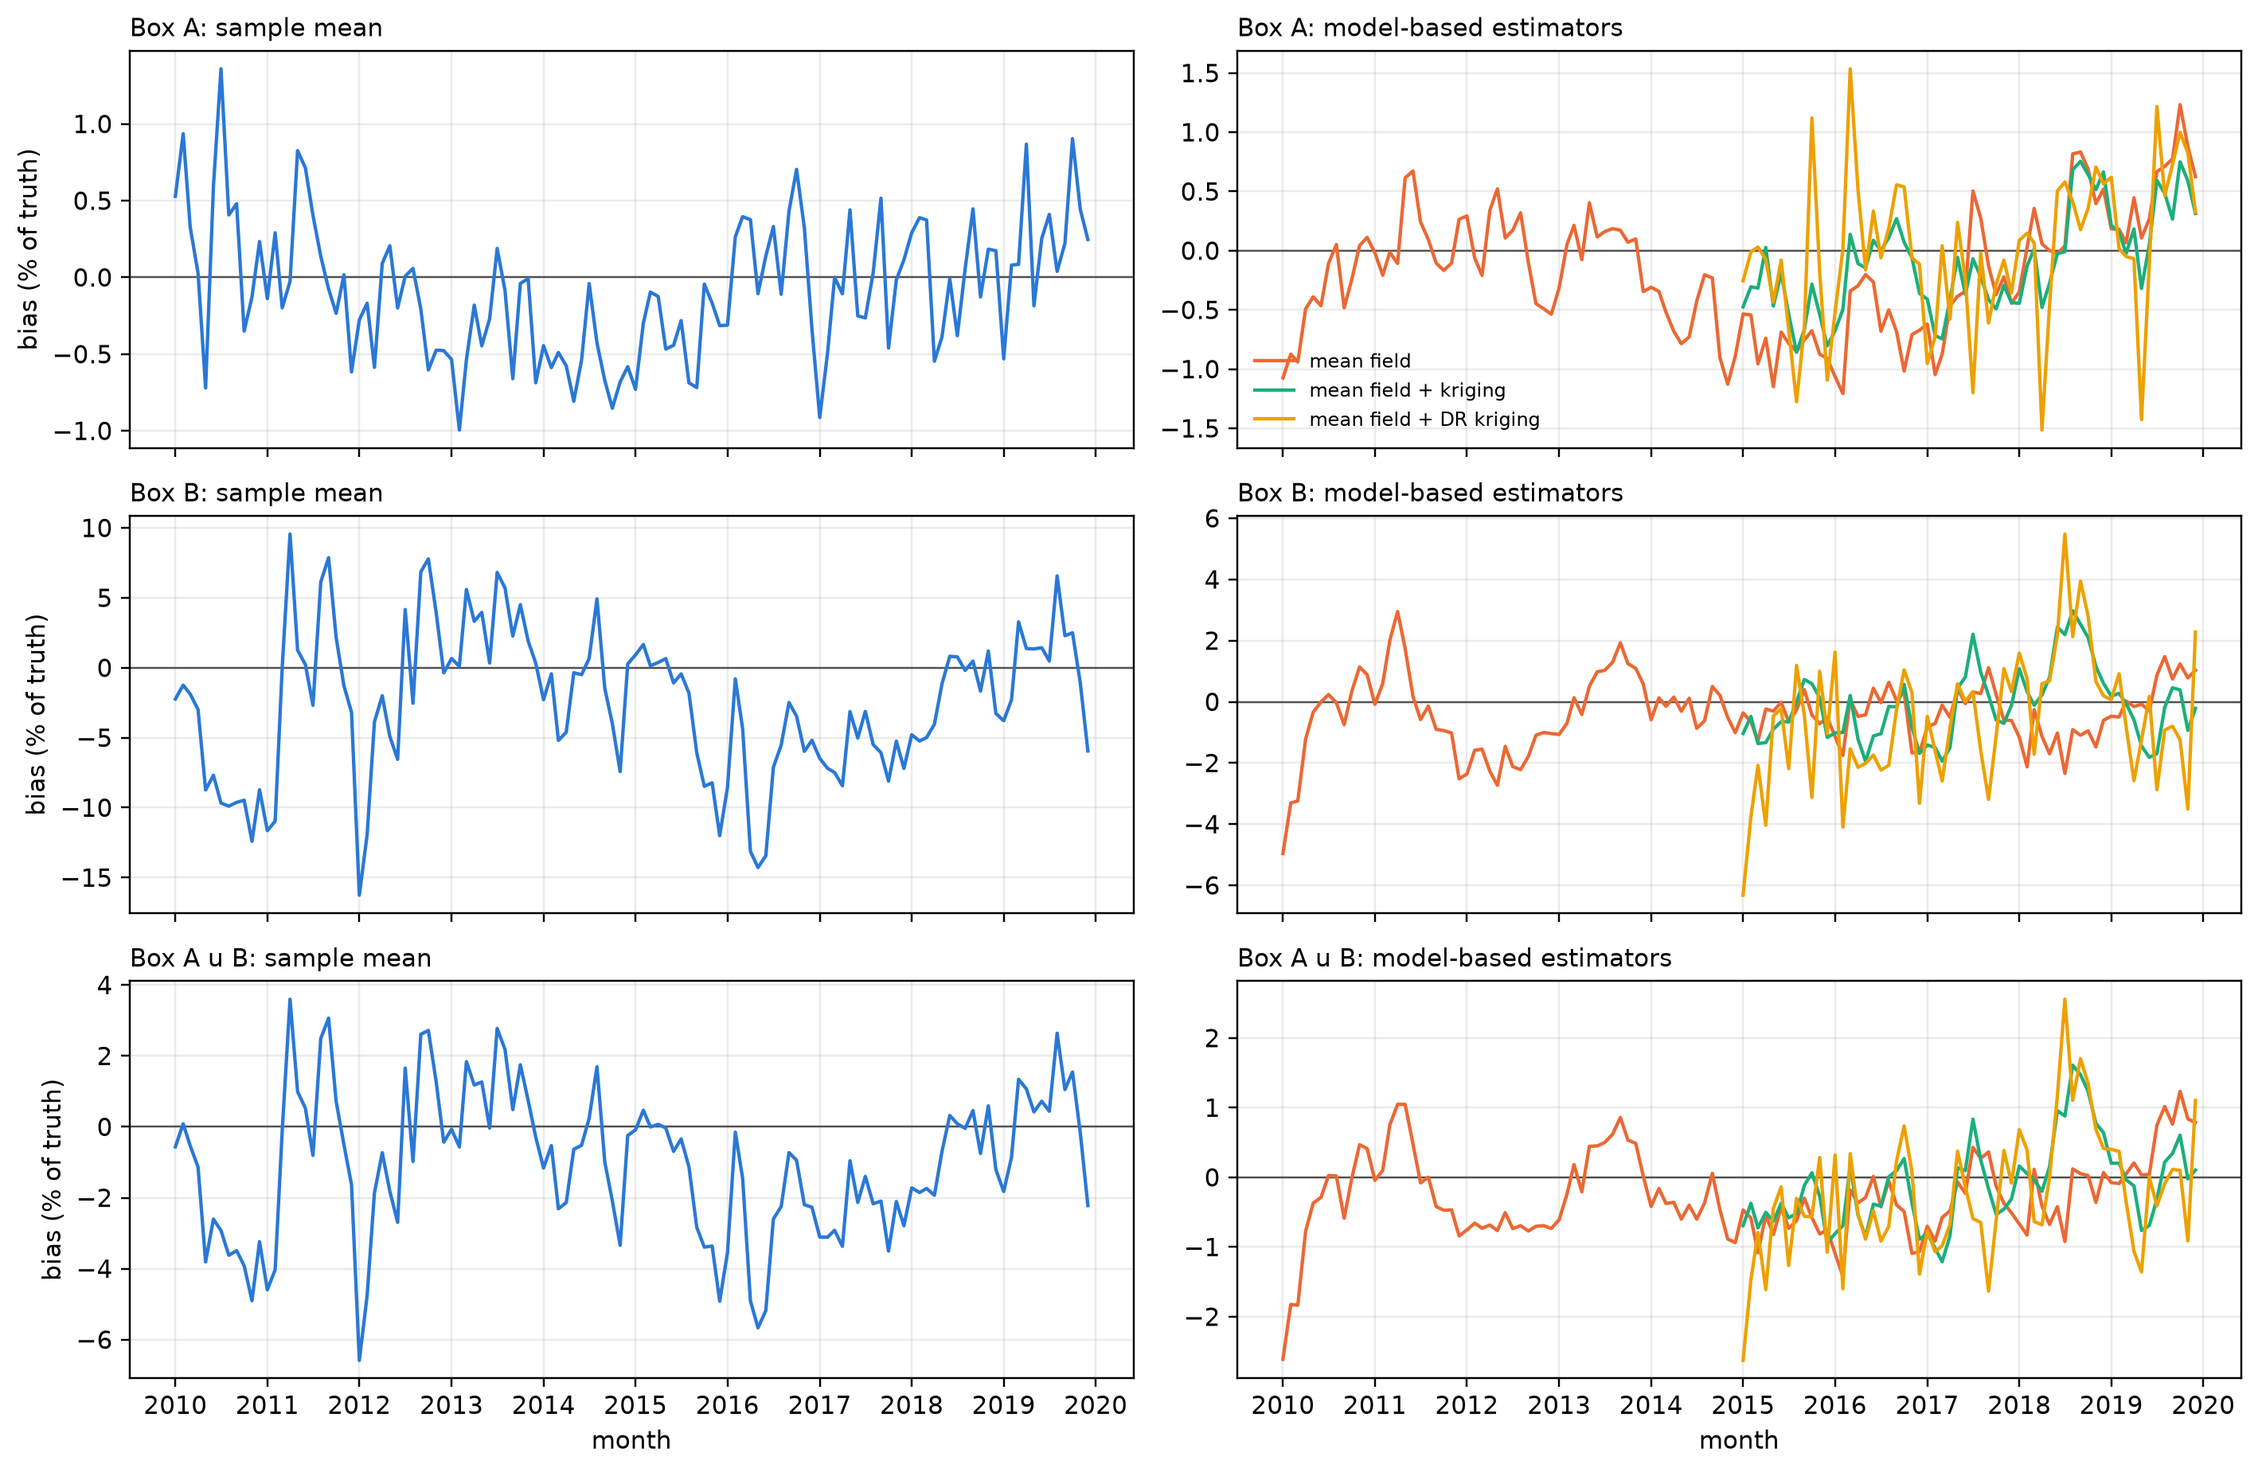
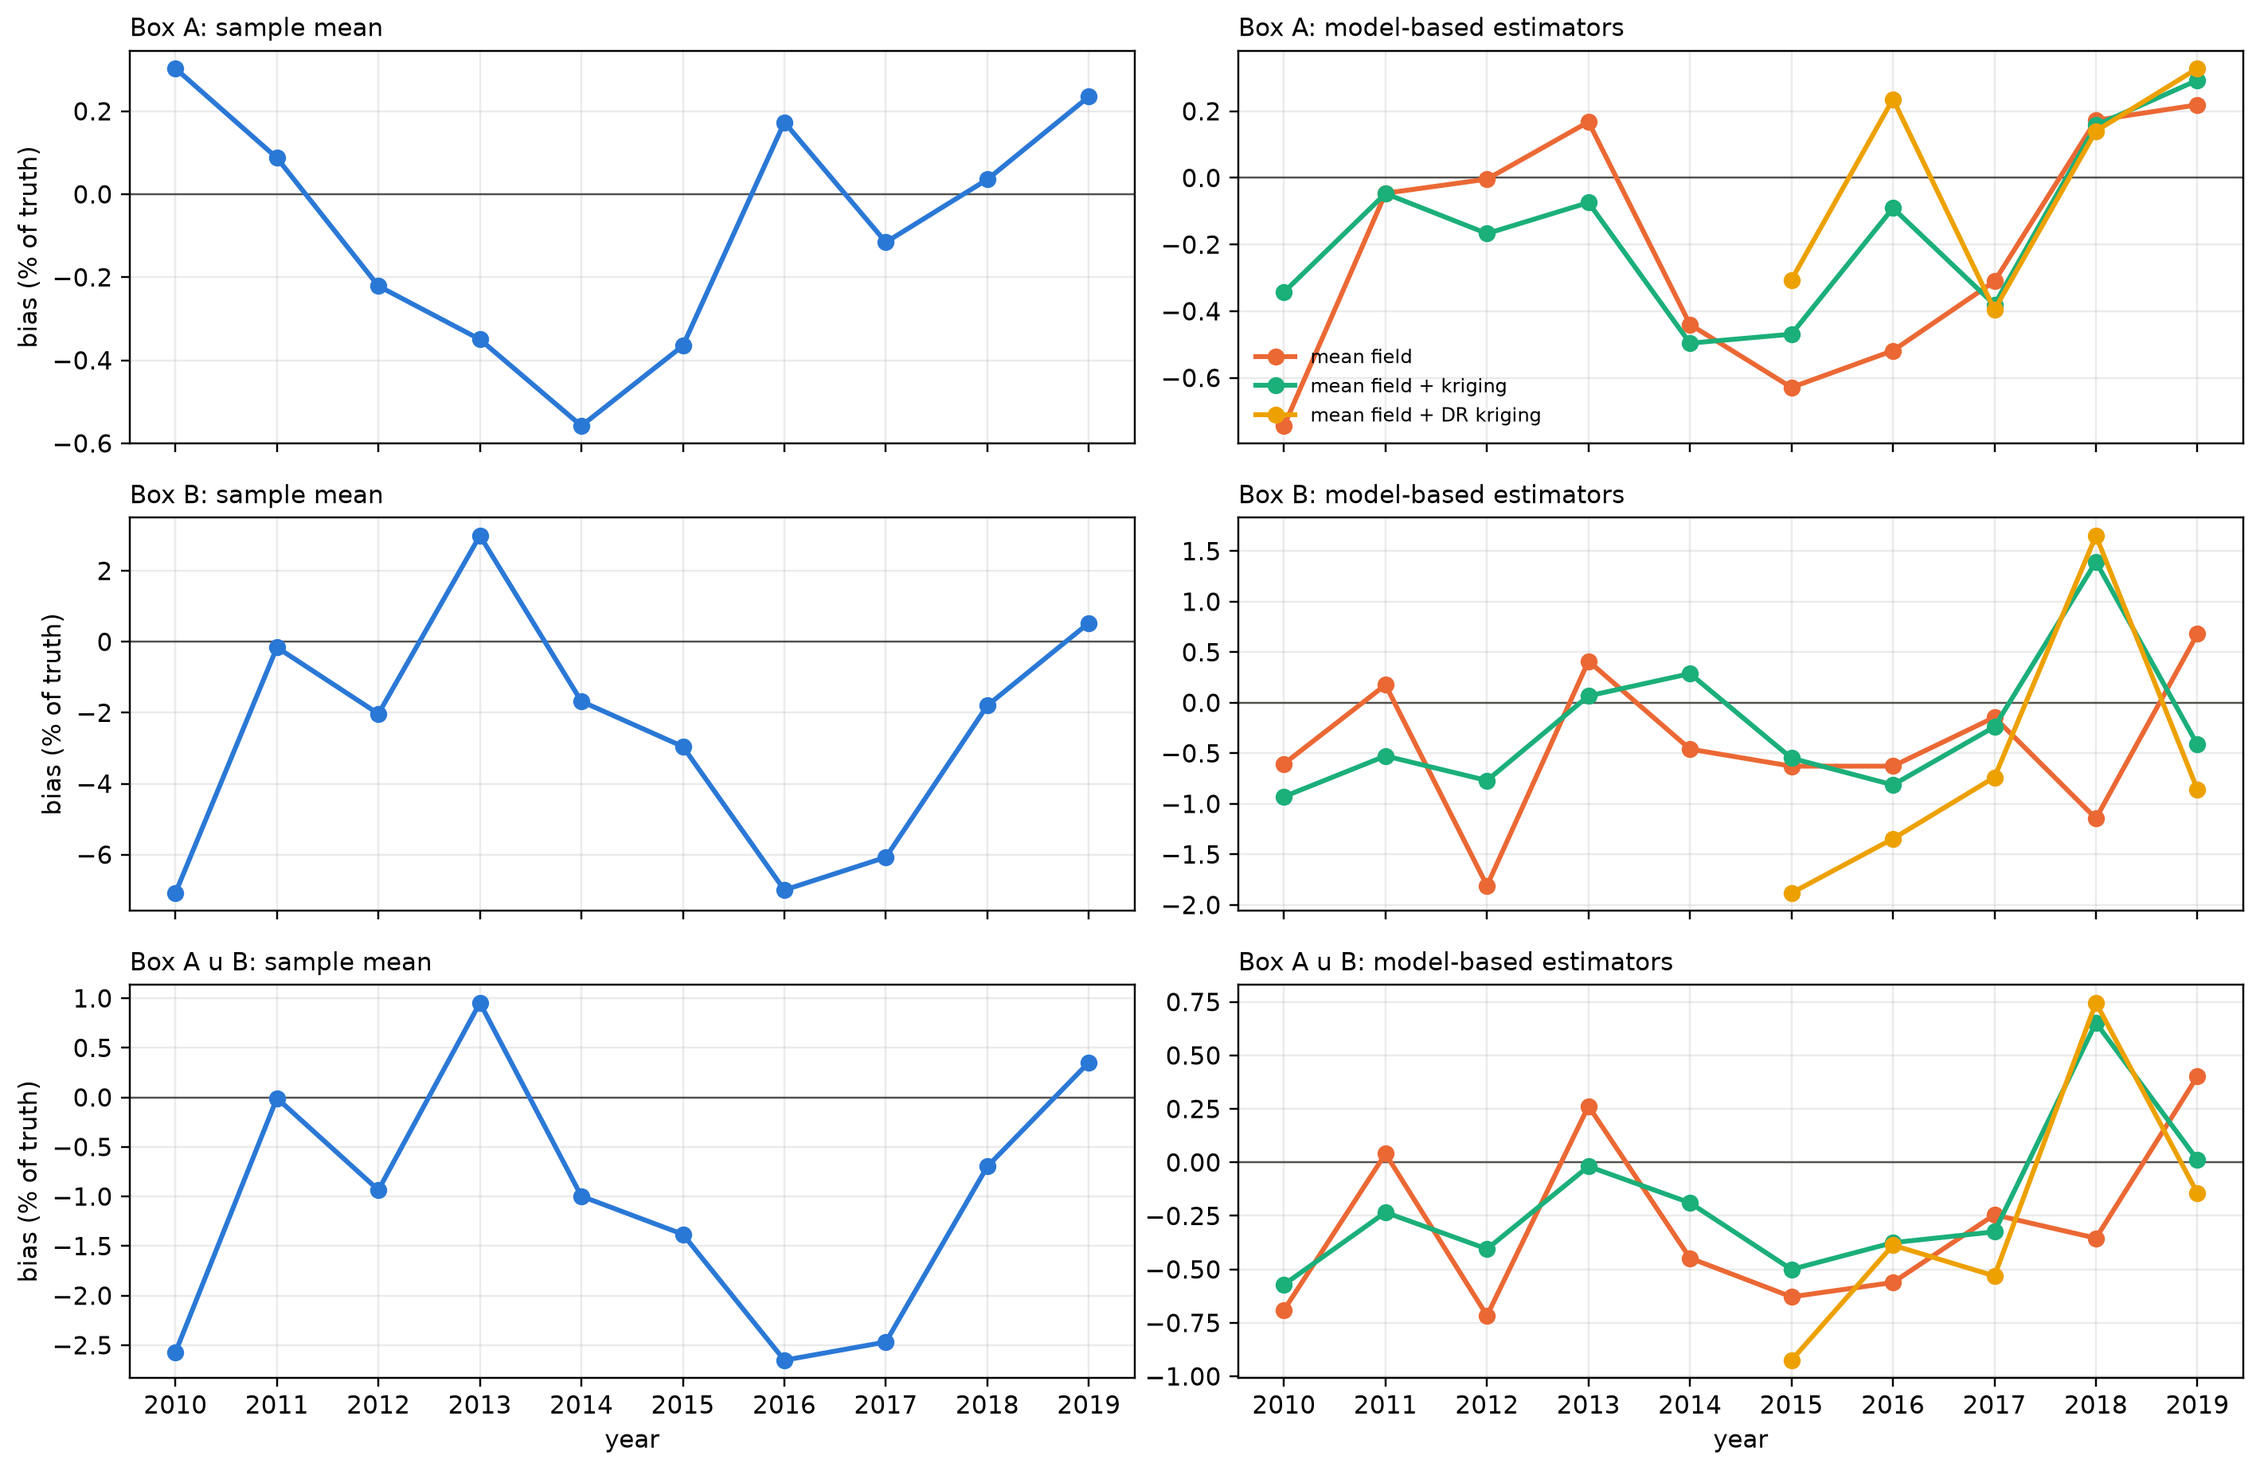
glorys_testbed: Sukianto et al. eq. 5 mean field, kriging back to 2010, bias on the scale of changes
- mean field: fixed 5 deg window (no widening), 6 yearday harmonics, linear + quadratic trend about
  2015-01-01; bilinear interpolation between centres renormalized over fitted centres
- kriging rerun on the new mean field (plug-ins reused) and extended to 2010-2019; DR stays 2015-2019
- report: eq. 5 regression with sukianto2026 / ridgway2002 / roemmich2009 citations, yearly and
  monthly bias charts, year-to-year change and scale-of-signal charts (bias in years of warming,
  trend error, change error vs true changes)

diff --git a/code/osim/glorys_dr.py b/code/osim/glorys_dr.py
@@ -29,11 +29,12 @@ YEARS = (2010, 2019)
 EPOCH = pd.Timestamp("2015-01-01")
 YEAR_D = 365.25
 
-LAM_MEAN, N_MIN, N_HARM = 5.0, 300, 2   # window half-width (deg), minimum profiles (window widened by 25%)
+LAM_MEAN, N_HARM = 5.0, 6   # fixed window half-width (deg) and annual harmonics, as Kuusela et al. eq. (5)
+N_MIN = 60                   # a window with fewer profiles (3x the coefficients) leaves its centre unfitted
 C_DEG = 1.0
 C_LAT = np.arange(cfg.BOXES["buffer"]["lat_bounds"][0] + C_DEG / 2, cfg.BOXES["buffer"]["lat_bounds"][1], C_DEG)
 C_LON = np.arange(cfg.BOXES["buffer"]["lon_bounds"][0] + C_DEG / 2, cfg.BOXES["buffer"]["lon_bounds"][1], C_DEG)
-N_T = 2 + 2 * N_HARM
+N_T = 3 + 2 * N_HARM
 
 
 def ohc_month(y, m):
@@ -129,10 +130,14 @@ def build_synth(arm=0, seed=0):
 
 
 def tbasis(day):
-    """Intercept, N_HARM annual harmonics and a linear trend in years since EPOCH: the part kept at a centre."""
-    t = np.asarray(day, float)[..., None]
-    w = 2 * np.pi * t / YEAR_D * np.arange(1, N_HARM + 1)
-    return np.concatenate([np.ones_like(t), np.sin(w), np.cos(w), t / YEAR_D], -1)
+    """Intercept, N_HARM annual harmonics in yearday tau(t) / 365, and a linear and quadratic trend in years
+    since EPOCH (the midpoint t_D of 2010-2019): the part kept at a centre."""
+    t = np.asarray(day, float)
+    d = np.datetime64(EPOCH.date(), "s") + np.round(t * 86400).astype("timedelta64[s]")
+    tau = (d - d.astype("datetime64[Y]")).astype(float) / 86400
+    w = 2 * np.pi * tau[..., None] / 365 * np.arange(1, N_HARM + 1)
+    s = (t / YEAR_D)[..., None]
+    return np.concatenate([np.ones_like(s), np.sin(w), np.cos(w), s, s**2], -1)
 
 
 def interp_matrix(lat, lon):
@@ -149,9 +154,9 @@ def interp_matrix(lat, lon):
 
 
 def fit_mean(obs):
-    """Window least squares at every centre: spatial quadratic in the window plus tbasis; keeps the tbasis
-    coefficients. Returns the full-data coefficients (C, N_T), the leave-one-float-out ones (F, C, N_T) and the
-    float ids indexing F. Leaving float f out drops its Gram contribution (exact refit)."""
+    """Least squares in the fixed window W(x*, y*) of every centre: spatial quadratic plus tbasis; keeps the
+    tbasis coefficients. Returns the full-data coefficients (C, N_T), the leave-one-float-out ones (F, C, N_T)
+    and the float ids indexing F. Leaving float f out drops its Gram contribution (exact refit)."""
     lat, lon, z = obs.lat.values, obs.lon.values, obs.z.values
     T = tbasis(obs.day.values)
     fid, fl = pd.factorize(obs.float_id.values)
@@ -160,13 +165,11 @@ def fit_mean(obs):
     full = np.full((len(C_LAT) * len(C_LON), N_T), np.nan)
     lofo = np.full((nF,) + full.shape, np.nan, np.float32)
     for c, (cy, cx) in enumerate(np.stack(np.meshgrid(C_LAT, C_LON, indexing="ij"), -1).reshape(-1, 2)):
-        dy, dx, lam = lat - cy, lon - cx, LAM_MEAN
-        while (inw := (np.abs(dy) <= lam) & (np.abs(dx) <= lam)).sum() < N_MIN and lam < 4 * LAM_MEAN:
-            lam *= 1.25
-        i = np.flatnonzero(inw)
+        dy, dx = lat - cy, lon - cx
+        i = np.flatnonzero((np.abs(dy) <= LAM_MEAN) & (np.abs(dx) <= LAM_MEAN))
         if len(i) < N_MIN:
             continue
-        u, v = dx[i] / lam, dy[i] / lam
+        u, v = dx[i] / LAM_MEAN, dy[i] / LAM_MEAN
         X = np.column_stack([u, v, u * v, u**2, v**2, T[i]])
         G, g = X.T @ X, X.T @ z[i]
         full[c] = np.linalg.solve(G + ridge * np.trace(G), g)[5:]
@@ -181,10 +184,16 @@ def fit_mean(obs):
     return full, lofo, fl
 
 
+def interp_coef(W, coef):
+    """Bilinear interpolation of centre coefficients, renormalized over the fitted centres (NaN if none)."""
+    ok = np.isfinite(coef[:, 0])
+    with np.errstate(invalid="ignore", divide="ignore"):
+        return (W @ np.where(ok[:, None], coef, 0.0)) / (W @ ok.astype(float))[:, None]
+
+
 def mean_at(coef, lat, lon, day):
     """Fitted mean at points from centre coefficients (C, N_T)."""
-    W = interp_matrix(lat, lon)
-    return ((W @ np.nan_to_num(coef)) * tbasis(day)).sum(-1)
+    return (interp_coef(interp_matrix(lat, lon), np.asarray(coef, float)) * tbasis(day)).sum(-1)
 
 
 def build_mean():
@@ -193,10 +202,9 @@ def build_mean():
     np.savez_compressed(os.path.join(OUT, "mean_field.npz"), full=full, lofo=lofo, float_id=np.asarray(fl),
                         c_lat=C_LAT, c_lon=C_LON)
     mu = mean_at(full, obs.lat.values, obs.lon.values, obs.day.values)
-    fid = pd.Index(fl).get_indexer(obs.float_id.values)
-    W = interp_matrix(obs.lat.values, obs.lon.values)
-    T = tbasis(obs.day.values)
-    mu_lofo = np.array([(W[k] @ np.nan_to_num(lofo[fid[k]])) @ T[k] for k in range(len(obs))]).ravel()
+    mu_lofo = np.full(len(obs), np.nan)
+    for k, g in obs.groupby("float_id").indices.items():
+        mu_lofo[g] = mean_at(lofo[pd.Index(fl).get_loc(k)], obs.lat.values[g], obs.lon.values[g], obs.day.values[g])
     out = obs.assign(mu=mu, mu_lofo=mu_lofo)
     out.to_parquet(os.path.join(OUT, "obs_mean.parquet"))
     return out
@@ -262,7 +270,7 @@ def _inverse(R):
 def mu_lofo_at(lofo, fidx, lat, lon, day):
     """Leave-one-float-out mean at points for each float index in fidx: (n, len(fidx))."""
     W, T = interp_matrix(lat, lon), tbasis(day)
-    return np.stack([((W @ lofo[f].astype(float)) * T).sum(-1) for f in fidx], -1)
+    return np.stack([(interp_coef(W, lofo[f].astype(float)) * T).sum(-1) for f in fidx], -1)
 
 
 def krige_month(month, obs=None, params=None, nodes=None):
@@ -487,7 +495,7 @@ PERIODS = {"2010-2019": (2010, 2019), "2015-2019": (2015, 2019)}
 def mean_field_box_months(years=YEARS):
     """Box-month means of the full-data mean field by the map-node quadrature (3 time nodes per month)."""
     nodes, full = map_nodes(), load_mean()[0]
-    W = interp_matrix(nodes.lat.values, nodes.lon.values) @ np.nan_to_num(full)
+    W = interp_coef(interp_matrix(nodes.lat.values, nodes.lon.values), full)
     rows = []
     for m0 in pd.date_range(f"{years[0]}-01", f"{years[1]}-12", freq="MS"):
         tn = (m0 - EPOCH) / pd.Timedelta(days=1) + m0.days_in_month * np.asarray(T_NODES)
@@ -497,17 +505,27 @@ def mean_field_box_months(years=YEARS):
     return pd.DataFrame(rows)
 
 
+def krige_box_months():
+    """Box-month means of the full-data kriging map (mean field + anomaly) for every kriged month."""
+    import glob
+    nd = pd.concat(pd.read_parquet(f) for f in sorted(glob.glob(os.path.join(OUT, f"krige{KTAG}", "nodes_*.parquet"))))
+    nd = nd.assign(v=nd.area * (nd.mu + nd.anom))
+    g = nd.groupby(["box", "month"])[["v", "area"]].sum()
+    return (g.v / g.area).rename("krige").reset_index()
+
+
 def assemble_estimates(label="speed"):
-    """Box-month truth with the sample mean and mean field over YEARS, and kriging and DR (2015-2019) from
-    dr_estimates; box A u B is the area-weighted combination of the two boxes."""
+    """Box-month truth with the sample mean, mean field and kriging over the months each covers, and DR
+    (2015-2019) from dr_estimates; box A u B is the area-weighted combination of the two boxes."""
     t = pd.read_parquet(os.path.join(BASE, "truth_monthly.parquet"))
     obs = pd.read_parquet(os.path.join(OUT, "obs.parquet"))
     nv = obs[obs.box != ""].assign(month=lambda d: d.time.dt.to_period("M").dt.to_timestamp()).groupby(
         ["box", "month"]).z.mean().rename("naive").reset_index()
     dr = pd.read_parquet(os.path.join(OUT, f"dr_estimates{KTAG}.parquet"))
-    dr = dr[(dr.label == label) & (dr.box != "boxAB")][["box", "month", "krige", "dr"]]
+    dr = dr[(dr.label == label) & (dr.box != "boxAB")][["box", "month", "dr"]]
     d = t[t.box != "boxAB"].merge(nv, on=["box", "month"], how="left").merge(
-        mean_field_box_months(), on=["box", "month"]).merge(dr, on=["box", "month"], how="left")
+        mean_field_box_months(), on=["box", "month"]).merge(krige_box_months(), on=["box", "month"], how="left").merge(
+        dr, on=["box", "month"], how="left")
     cols = ["ohc", *EST_LAB]
     ab = d.groupby("month").apply(lambda g: pd.Series({c: np.average(g[c], weights=g.area_m2) for c in cols}))
     d = pd.concat([d, ab.reset_index().assign(box="boxAB")], ignore_index=True)[["box", "month", *cols]]
@@ -538,11 +556,14 @@ def summary_table(box, d=None):
     return out.rename_axis("year").reset_index()
 
 
-def plot_bias(d=None, pct=True, figsize=(13, 8.5)):
-    """Box-month bias (percent of truth or GJ/m2): one row per box, the sample mean in the left panel and
-    the model-based estimators in the right, each panel on its own scale."""
+def plot_bias(d=None, pct=True, by="month", figsize=(13, 8.5)):
+    """Bias by box-month or (day-weighted) box-year, percent of truth or GJ/m2: one row per box, the sample
+    mean in the left panel and the model-based estimators in the right, each panel on its own scale."""
     import matplotlib.pyplot as plt
     d = load_estimates() if d is None else d
+    if by == "year":
+        g = _period_means(d).reset_index()
+        d = g[g.period.str.len() == 4].assign(month=lambda x: x.period.astype(int))
     groups = (["naive"], [c for c in EST_LAB if c != "naive"])
     fig, ax = plt.subplots(len(BOX_LAB), 2, figsize=figsize, sharex=True)
     for row, b in zip(ax, BOX_LAB):
@@ -551,13 +572,90 @@ def plot_bias(d=None, pct=True, figsize=(13, 8.5)):
             a.axhline(0, color="#52514e", lw=0.8)
             for c in cols:
                 v = (x[c] - x.ohc) / x.ohc * 100 if pct else (x[c] - x.ohc) * 1e-9
-                a.plot(x.month, v, color=EST_COL[c], lw=1.4, label=EST_LAB[c])
+                a.plot(x.month, v, "-o" if by == "year" else "-", color=EST_COL[c], lw=1.4 if by == "month" else 2,
+                       ms=6, label=EST_LAB[c])
             a.set_title(f"{BOX_LAB[b]}: {'sample mean' if cols == ['naive'] else 'model-based estimators'}",
                         loc="left", fontsize=10)
         row[0].set_ylabel("bias (% of truth)" if pct else "bias (GJ/m2)")
     ax[0, 1].legend(fontsize=8, frameon=False, loc="lower left")
     for a in ax[-1]:
-        a.set_xlabel("month")
+        a.set_xlabel(by)
+        if by == "year":
+            a.set_xticks(range(YEARS[0], YEARS[1] + 1))
+    fig.tight_layout()
+    return fig
+
+
+def yearly(d=None):
+    """Day-weighted box-year truth and estimates (GJ/m2), indexed by box and integer year."""
+    g = _period_means(load_estimates() if d is None else d).reset_index()
+    g = g[g.period.str.len() == 4].assign(year=lambda x: x.period.astype(int))
+    return g.set_index(["box", "year"])[["ohc", *EST_LAB]] * 1e-9
+
+
+def scale_metrics(d=None):
+    """Per box and estimator, over the years it covers: mean bias in years of the true 2010-2019 trend, trend
+    error as % of the true trend over the same years (only for estimators covering all of YEARS), and the RMS
+    error of the year-to-year change over the SD of the true changes."""
+    y, rows = yearly(d), []
+    for b in BOX_LAB:
+        x = y.loc[b]
+        slope = np.polyfit(x.index, x.ohc, 1)[0]
+        for c, lab in EST_LAB.items():
+            e = (x[c] - x.ohc).dropna()
+            full = len(e) == len(x)
+            rows.append(dict(box=b, estimator=lab, years=f"{e.index.min()}-{e.index.max()}",
+                             bias_years_of_trend=e.mean() / slope,
+                             trend_error_pct=100 * np.polyfit(e.index, e, 1)[0] / slope if full else np.nan,
+                             change_error_ratio=np.sqrt((e.diff() ** 2).mean()) / x.ohc.diff().std()))
+    return pd.DataFrame(rows)
+
+
+def plot_changes(d=None, figsize=(13, 8.5)):
+    """True and estimated year-to-year change of the box-year mean: one row per box, the sample mean left
+    and the model-based estimators right."""
+    import matplotlib.pyplot as plt
+    y = yearly(d).groupby(level="box").diff().dropna(subset=["ohc"])
+    groups = (["naive"], [c for c in EST_LAB if c != "naive"])
+    fig, ax = plt.subplots(len(BOX_LAB), 2, figsize=figsize, sharex=True)
+    for row, b in zip(ax, BOX_LAB):
+        x = y.loc[b]
+        for a, cols in zip(row, groups):
+            a.axhline(0, color="#52514e", lw=0.8)
+            a.plot(x.index, x.ohc, "-o", color="#0b0b0b", lw=2, ms=6, label="truth")
+            for c in cols:
+                a.plot(x.index, x[c], "-o", color=EST_COL[c], lw=1.6, ms=6, label=EST_LAB[c])
+            a.set_title(f"{BOX_LAB[b]}: {'sample mean' if cols == ['naive'] else 'model-based estimators'}",
+                        loc="left", fontsize=10)
+        row[0].set_ylabel("change from previous year (GJ/m2)")
+    for a in ax[0]:
+        a.legend(fontsize=8, frameon=False, loc="lower left")
+    for a in ax[-1]:
+        a.set_xlabel("year")
+        a.set_xticks(range(YEARS[0] + 1, YEARS[1] + 1))
+    fig.tight_layout()
+    return fig
+
+
+def plot_scale_metrics(d=None, figsize=(13, 4.2)):
+    """Bias on the scale of the signal: level bias in years of warming, trend error in % of the trend, and
+    the yearly-change error relative to the true yearly changes, grouped by box."""
+    import matplotlib.pyplot as plt
+    m = scale_metrics(d)
+    panels = (("bias_years_of_trend", "mean bias (years of 2010-2019 warming)", 0),
+              ("trend_error_pct", "trend error (% of true trend, 2010-2019)", 0),
+              ("change_error_ratio", "RMS error of yearly change / SD of true change", 1))
+    fig, ax = plt.subplots(1, 3, figsize=figsize)
+    w = 0.8 / len(EST_LAB)
+    for a, (col, lab, ref) in zip(ax, panels):
+        for k, (c, el) in enumerate(EST_LAB.items()):
+            v = m[m.estimator == el].set_index("box").loc[list(BOX_LAB), col]
+            a.bar(np.arange(len(BOX_LAB)) + (k - 1.5) * w, v, w * 0.9, color=EST_COL[c], label=el)
+        a.axhline(ref, color="#52514e", lw=0.8, ls="-" if ref == 0 else "--")
+        a.set_xticks(range(len(BOX_LAB)), list(BOX_LAB.values()))
+        a.set_title(lab, fontsize=9)
+        a.grid(axis="x", visible=False)
+    ax[0].legend(fontsize=8, frameon=False)
     fig.tight_layout()
     return fig
 
